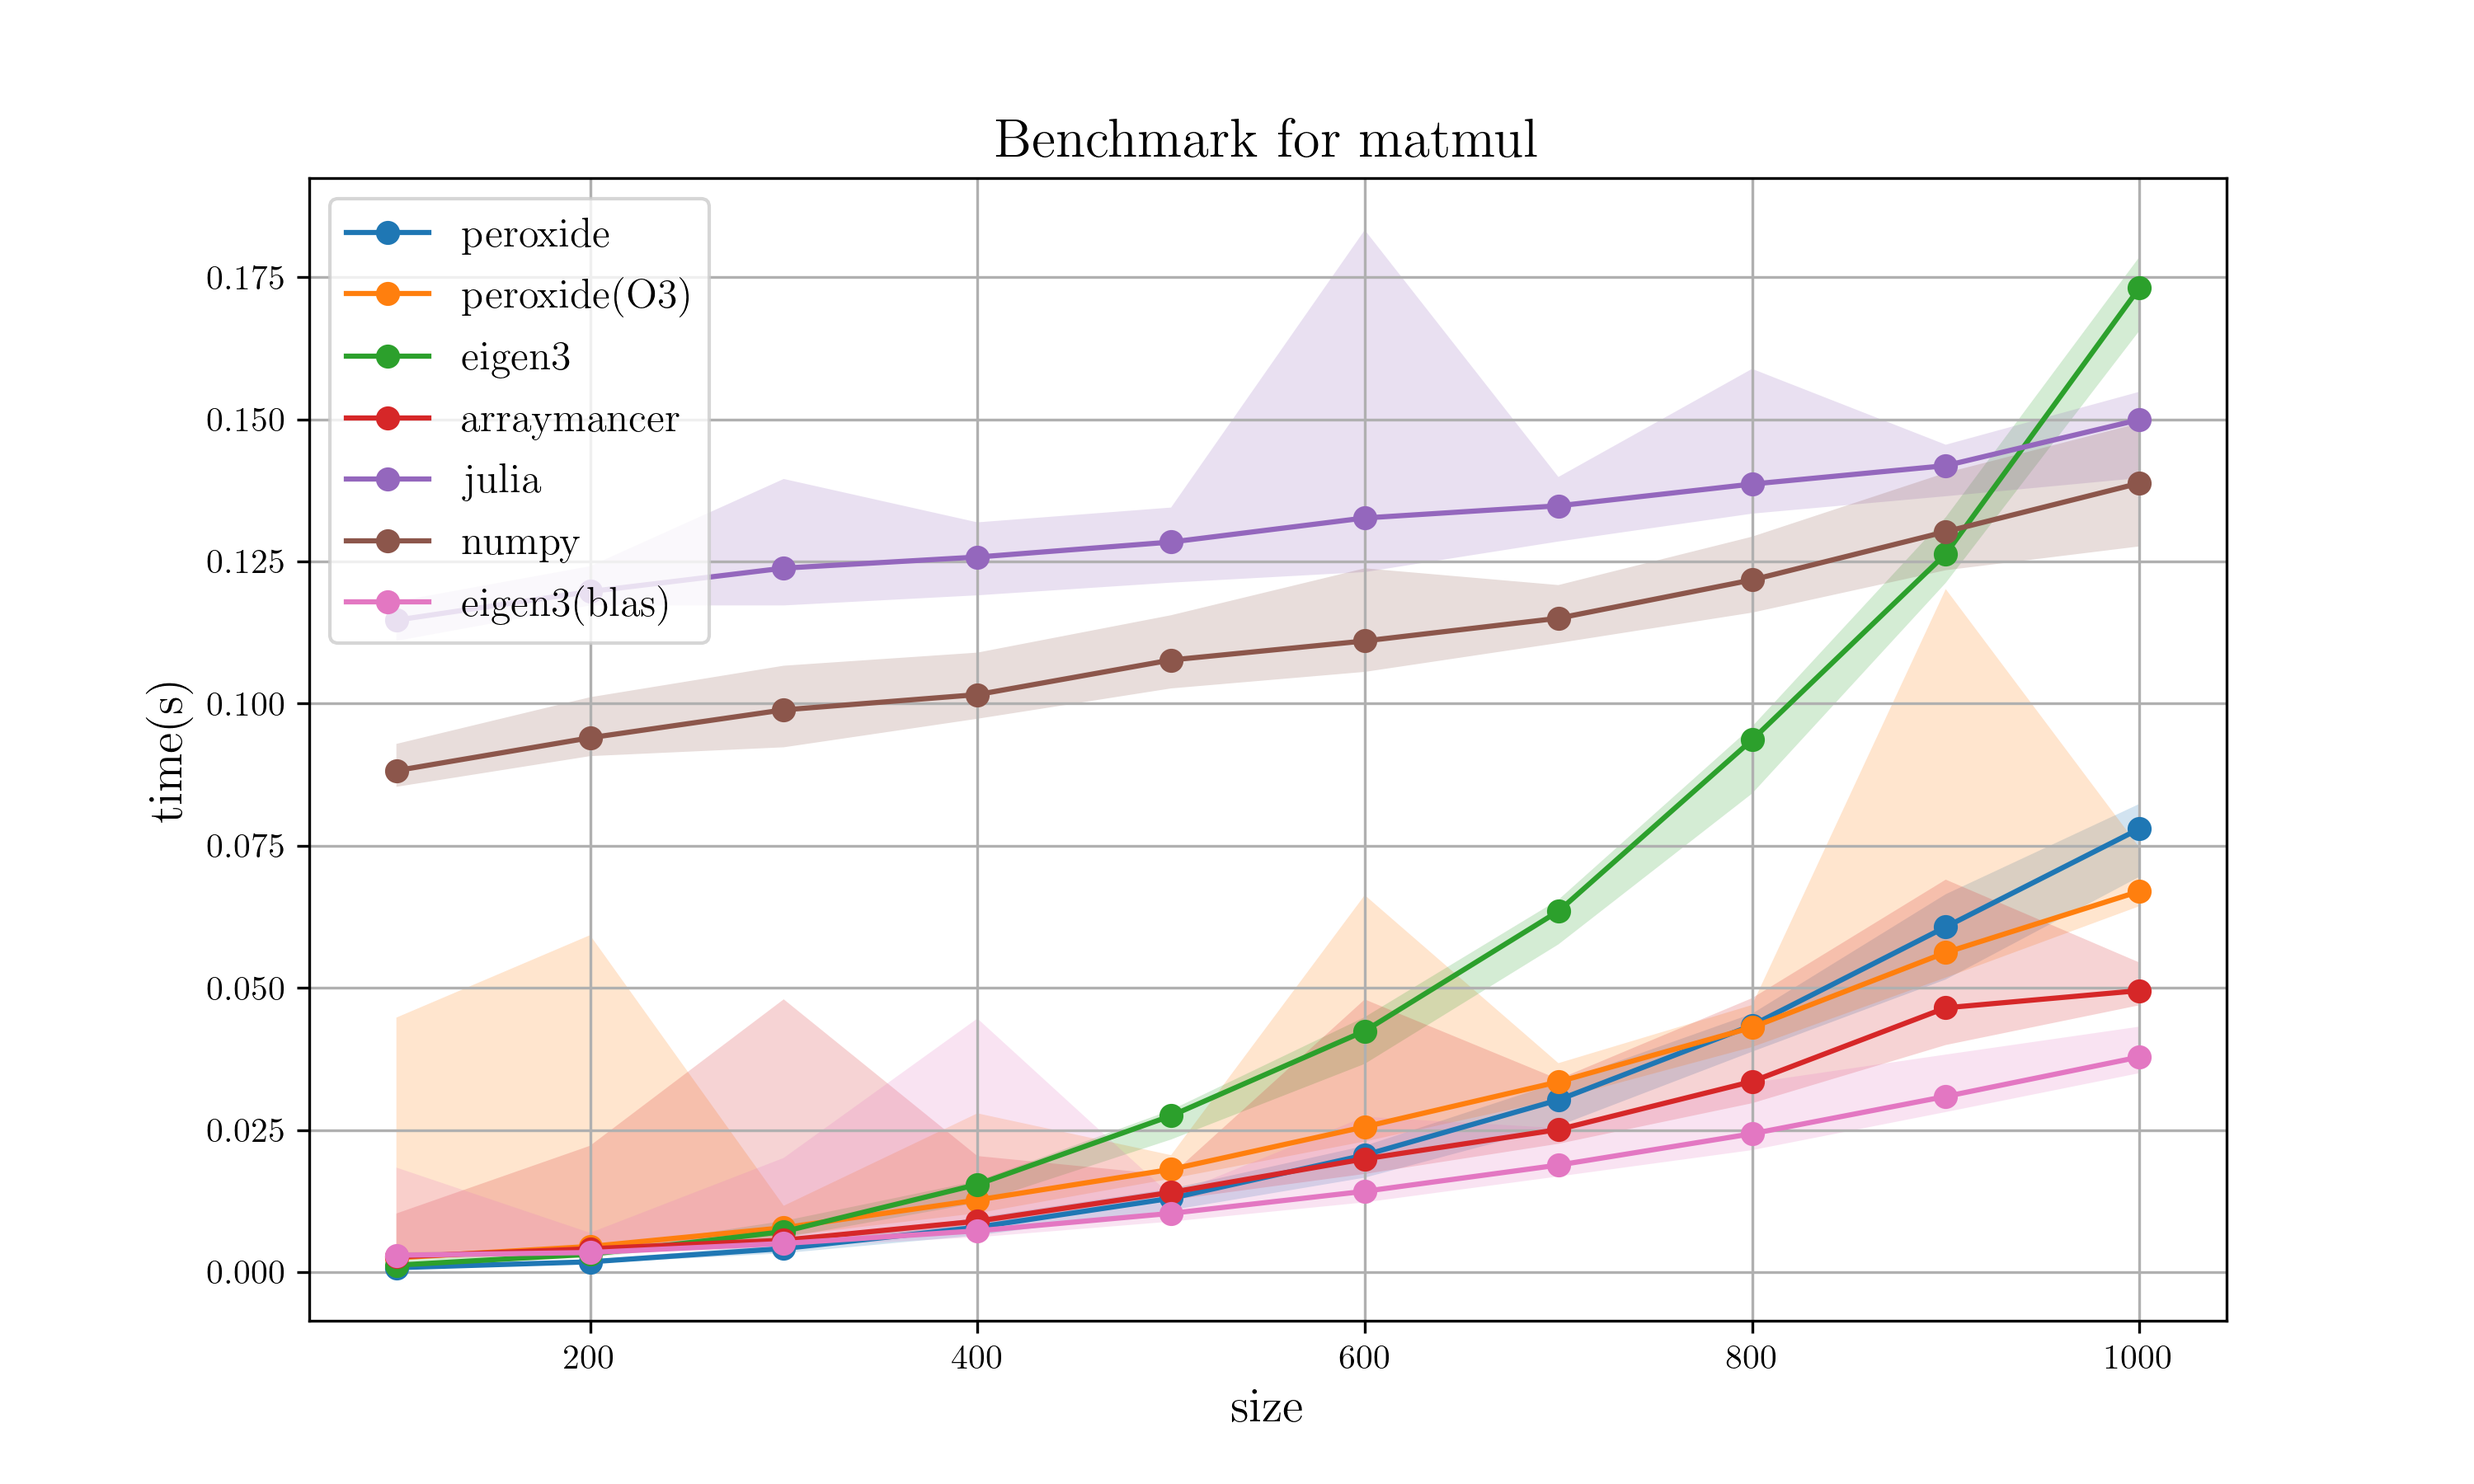
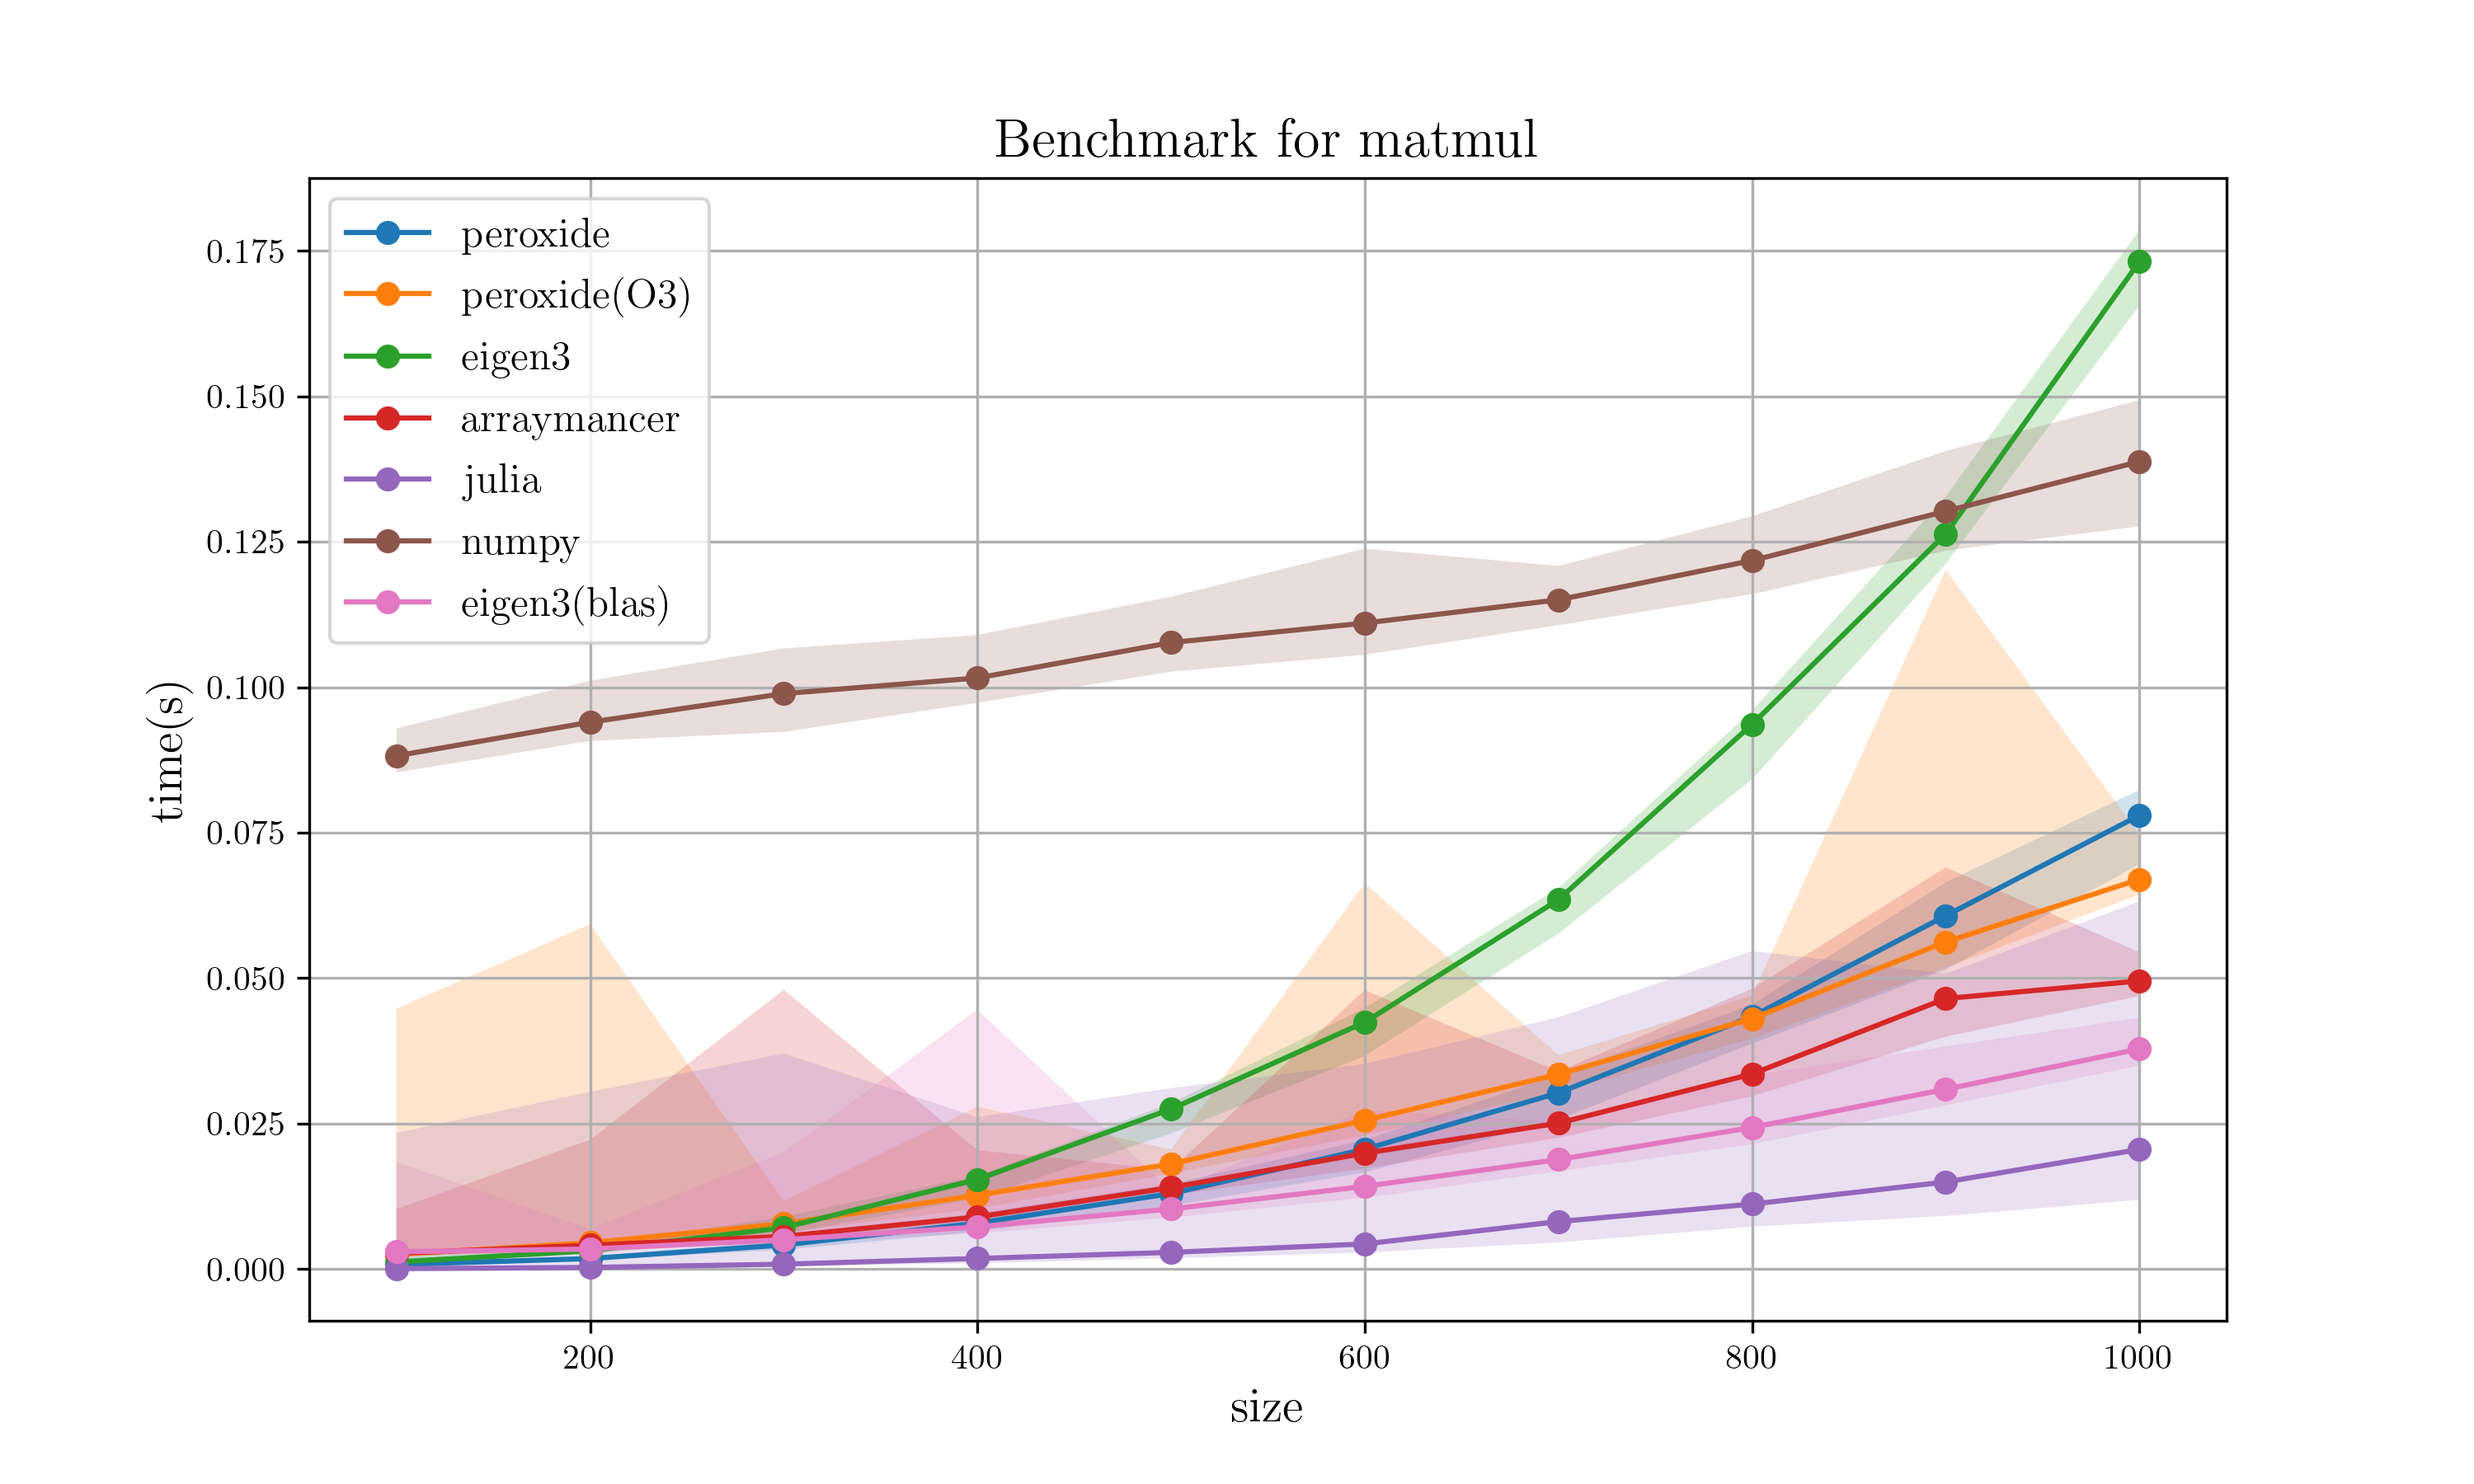
Julia BenchmarkTools

diff --git a/Linear_Algebra/matmul/plot.py b/Linear_Algebra/matmul/plot.py
@@ -3,13 +3,15 @@ import pandas as pd
 
 # Load csv
 df = pd.read_csv("bench.csv")
+dg = pd.read_csv("bench_julia.csv")
 
 # Filtering
 peroxide = df[df["command"].str.contains("peroxide")]
 eigen3 = df[df["command"].str.contains("default")]
 eigen3_blas = df[df["command"].str.contains("blas")]
 numpy = df[df["command"].str.contains("numpy")]
-julia = df[df["command"].str.contains("julia")]
+#julia = df[df["command"].str.contains("julia")]
+julia = dg
 #chapel = df[df["command"].str.contains("chapel")]
 o3 = df[df["command"].str.contains("o3")]
 nim = df[df["command"].str.contains("nim")]
@@ -38,8 +40,8 @@ plt.fill_between(eigen3["parameter_size"], eigen3["min"], eigen3["max"], alpha=0
 plt.plot(nim["parameter_size"], nim["mean"], marker='o', label=r'arraymancer')
 plt.fill_between(nim["parameter_size"], nim["min"], nim["max"], alpha=0.2)
 
-plt.plot(julia["parameter_size"], julia["mean"], marker='o', label=r'julia')
-plt.fill_between(julia["parameter_size"], julia["min"], julia["max"], alpha=0.2)
+plt.plot(julia["param"], julia["mean"], marker='o', label=r'julia')
+plt.fill_between(julia["param"], julia["min"], julia["max"], alpha=0.2)
 
 plt.plot(numpy["parameter_size"], numpy["mean"], marker='o', label=r'numpy')
 plt.fill_between(numpy["parameter_size"], numpy["min"], numpy["max"], alpha=0.2)

diff --git a/Linear_Algebra/matmul/README.md b/Linear_Algebra/matmul/README.md
@@ -11,7 +11,7 @@
 * Rust(BLAS) : `RUSTFLAGS='-C target-cpu=native' cargo build --release --features O3`
 * C++ : `g++ -I$EIGEN -O2`
 * C++(BLAS) : `g++ -I$EIGEN -I$OPENBLAS -lopenblas -O2`
-* Julia : `julia -O0 --startup-file=no --compile=min`
+* Julia : `@benchmark`
 * Nim : `nimble build -d:release -d:danger -d:openblas -d:blas=cblas`
 
 ## Specific version

diff --git a/README.md b/README.md
@@ -34,6 +34,7 @@
 ## Benchmark tool & command
 
 * [Hyperfine](https://github.com/sharkdp/hyperfine) : `hyperfine -w 3 --export-markdown bench.md`
+* [BenchmarkTools](https://github.com/JuliaCI/BenchmarkTools.jl) : For julia benchmark
 
 ## Computations
 
